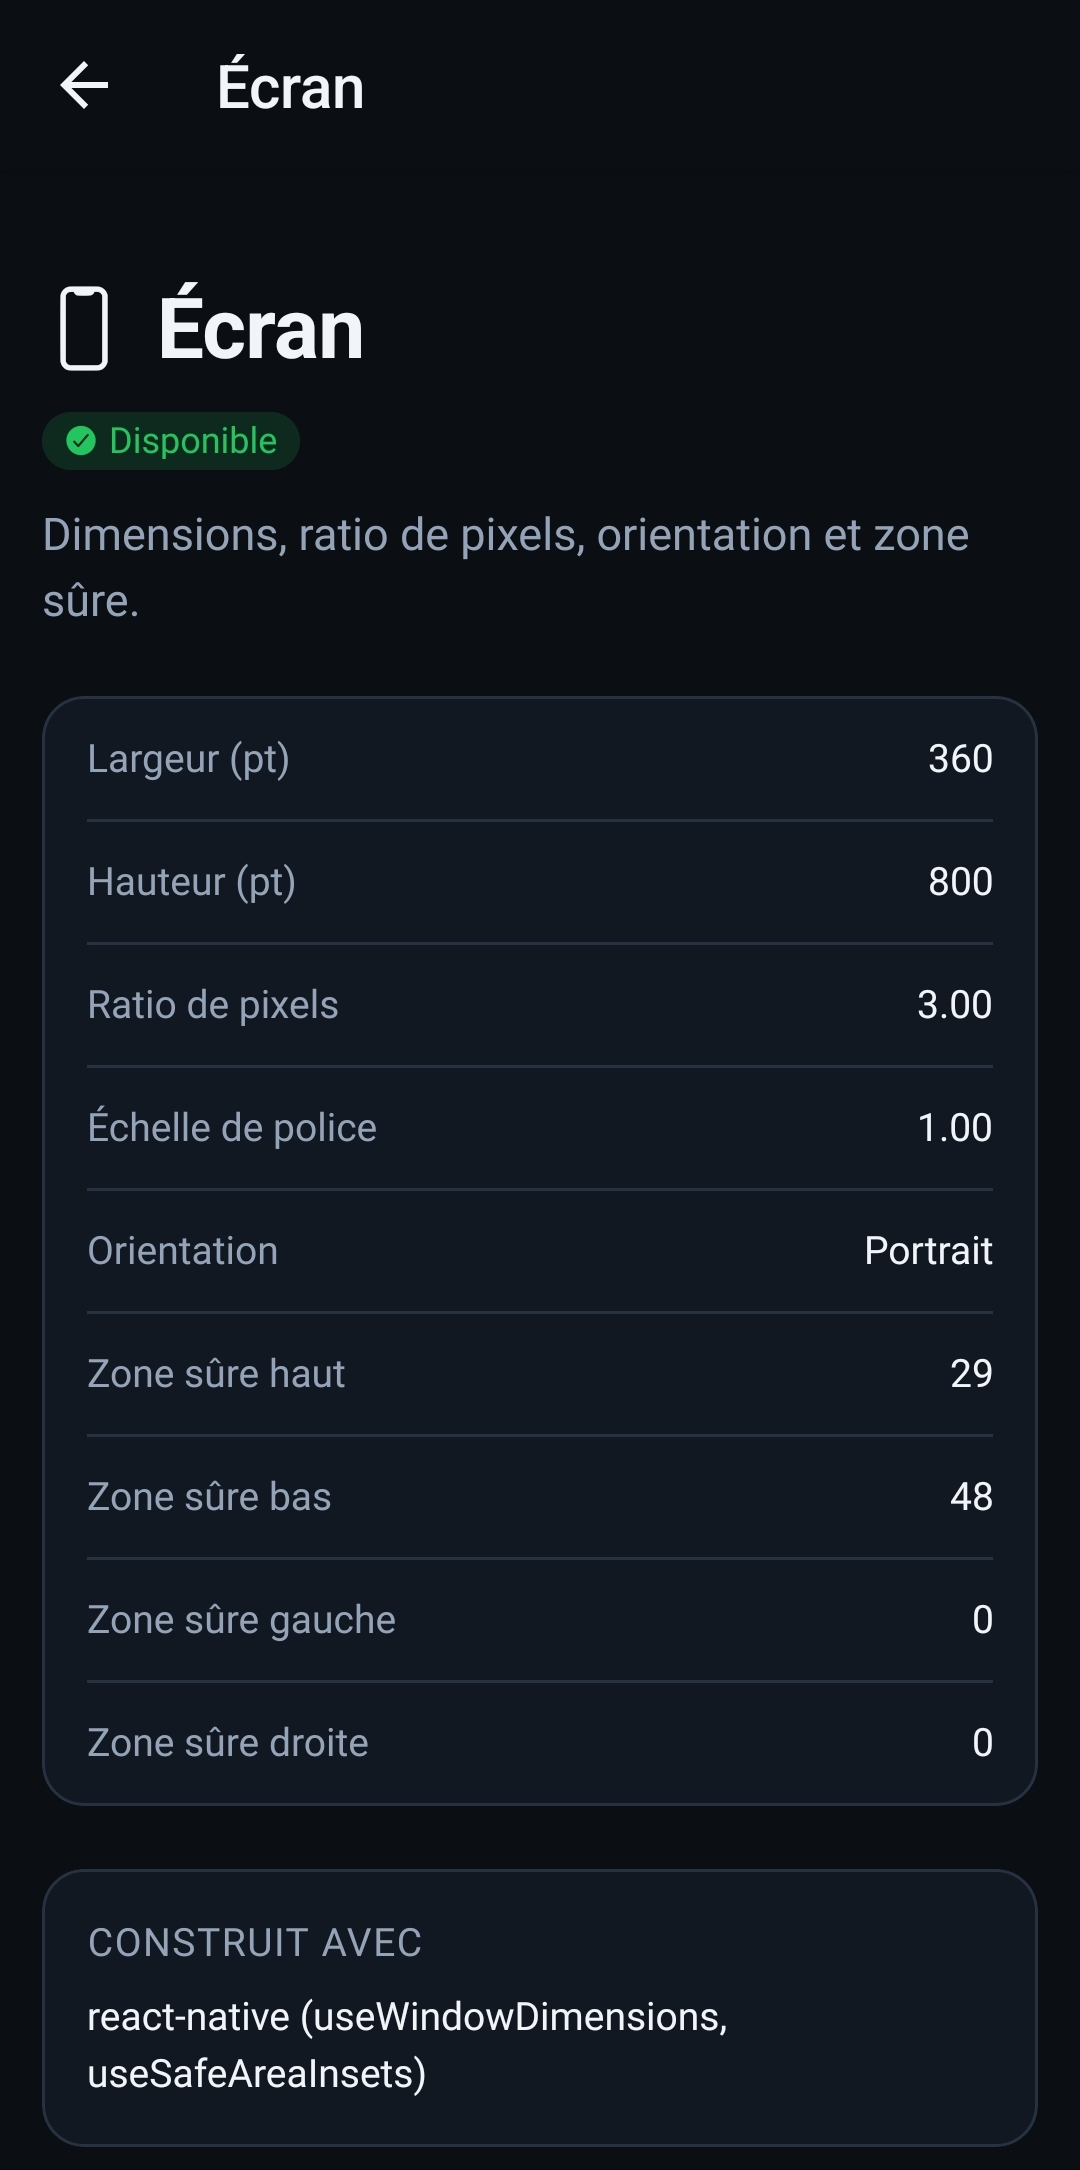
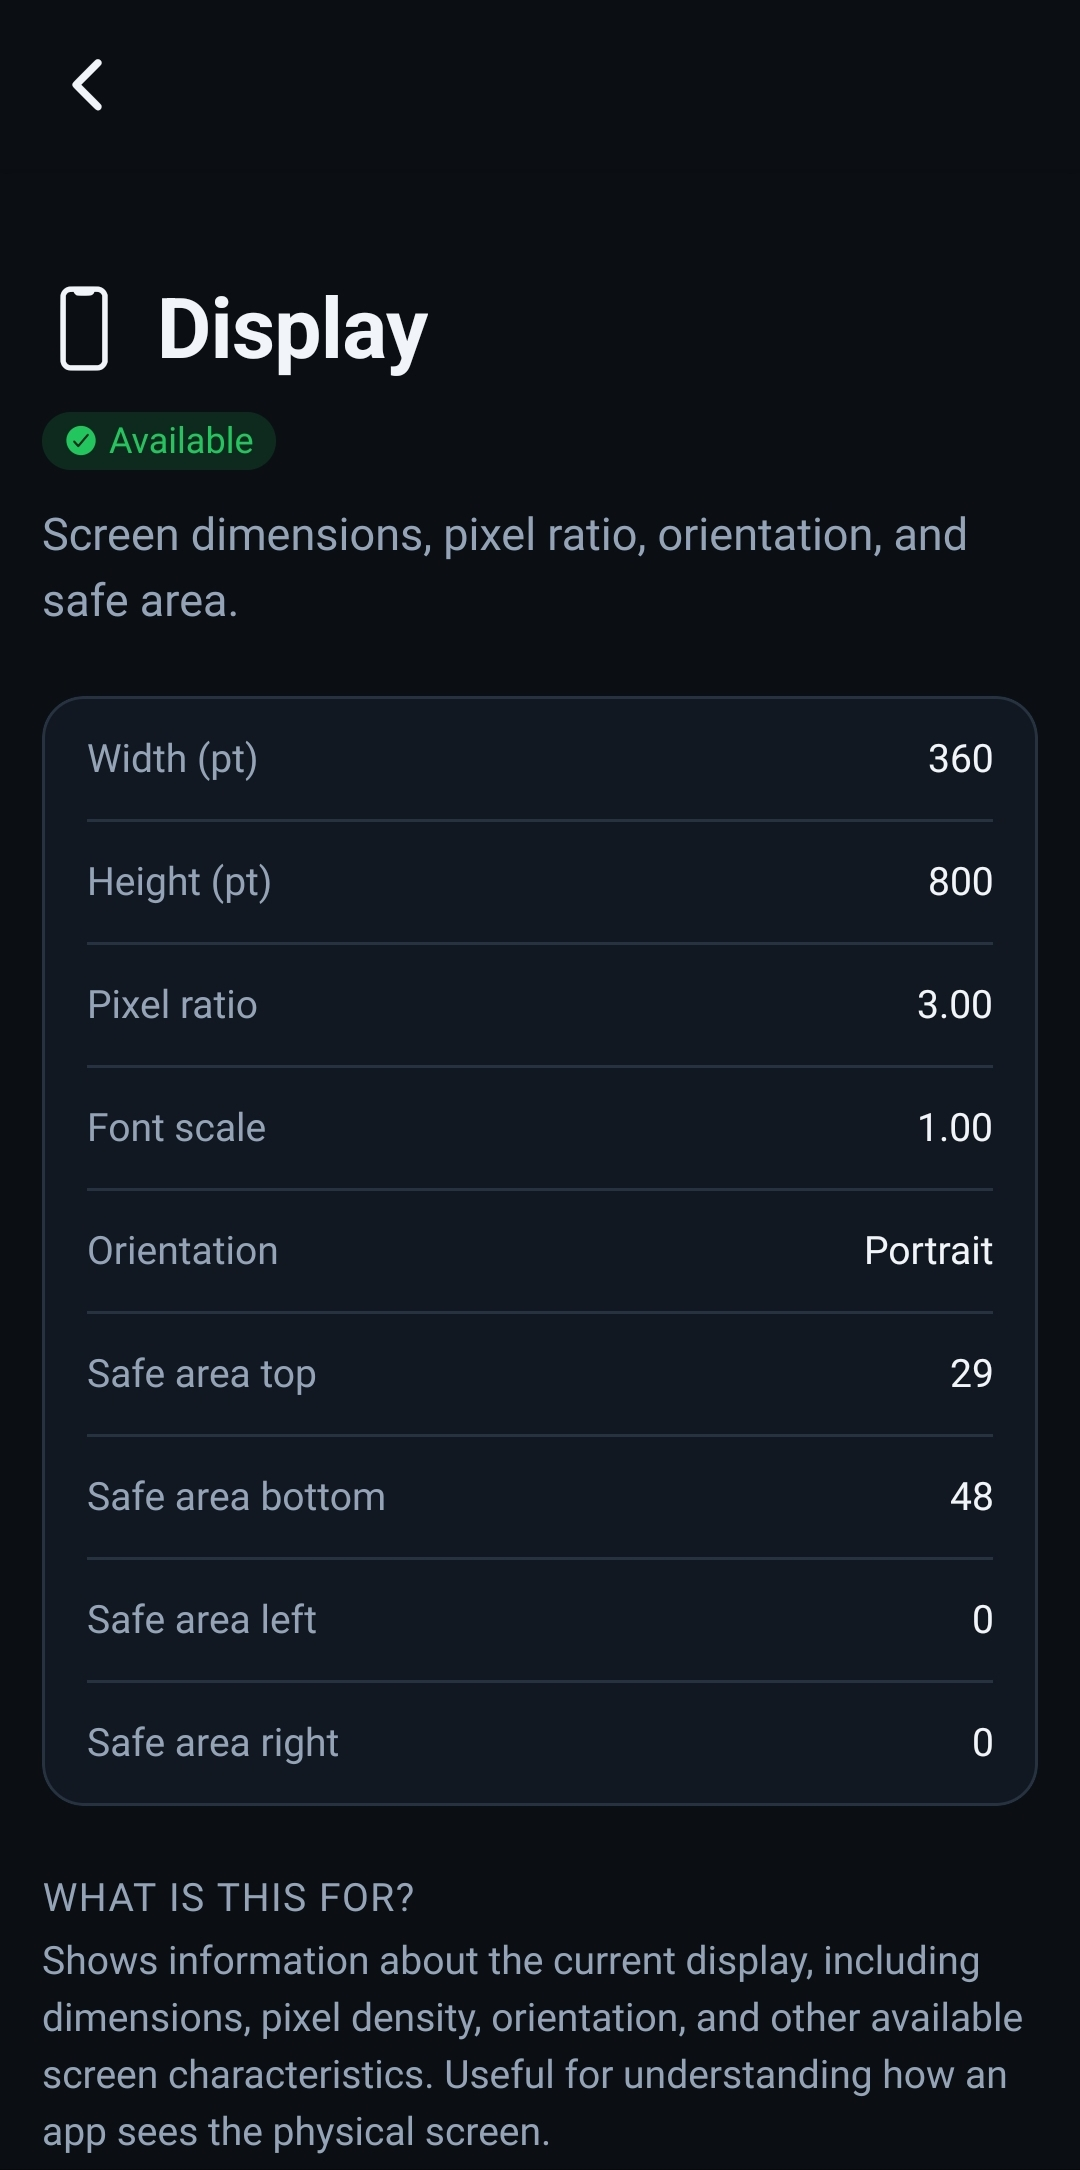
docs: replace readme screenshots with english captures
- swap the 8 portrait screenshots (overview, display, network, magnetometer, biometrics, battery, haptics) for their english-language equivalents
- drop the 2 landscape screenshots (overview, deep links) and their readme section entirely

diff --git a/README.md b/README.md
@@ -26,9 +26,6 @@ NativeProbe is an open-source React Native playground for exploring, testing, an
   </tr>
 </table>
 
-<img src=".github/images/screenshots/overview-landscape-dark.jpg" width="100%" alt="Overview screen in landscape, dark mode">
-<img src=".github/images/screenshots/deep-links-landscape-light.jpg" width="100%" alt="Deep Links probe in landscape, light mode">
-
 ## Key features
 
 - **13 interactive probes** across device info, live sensors, and system APIs — see the list below.
